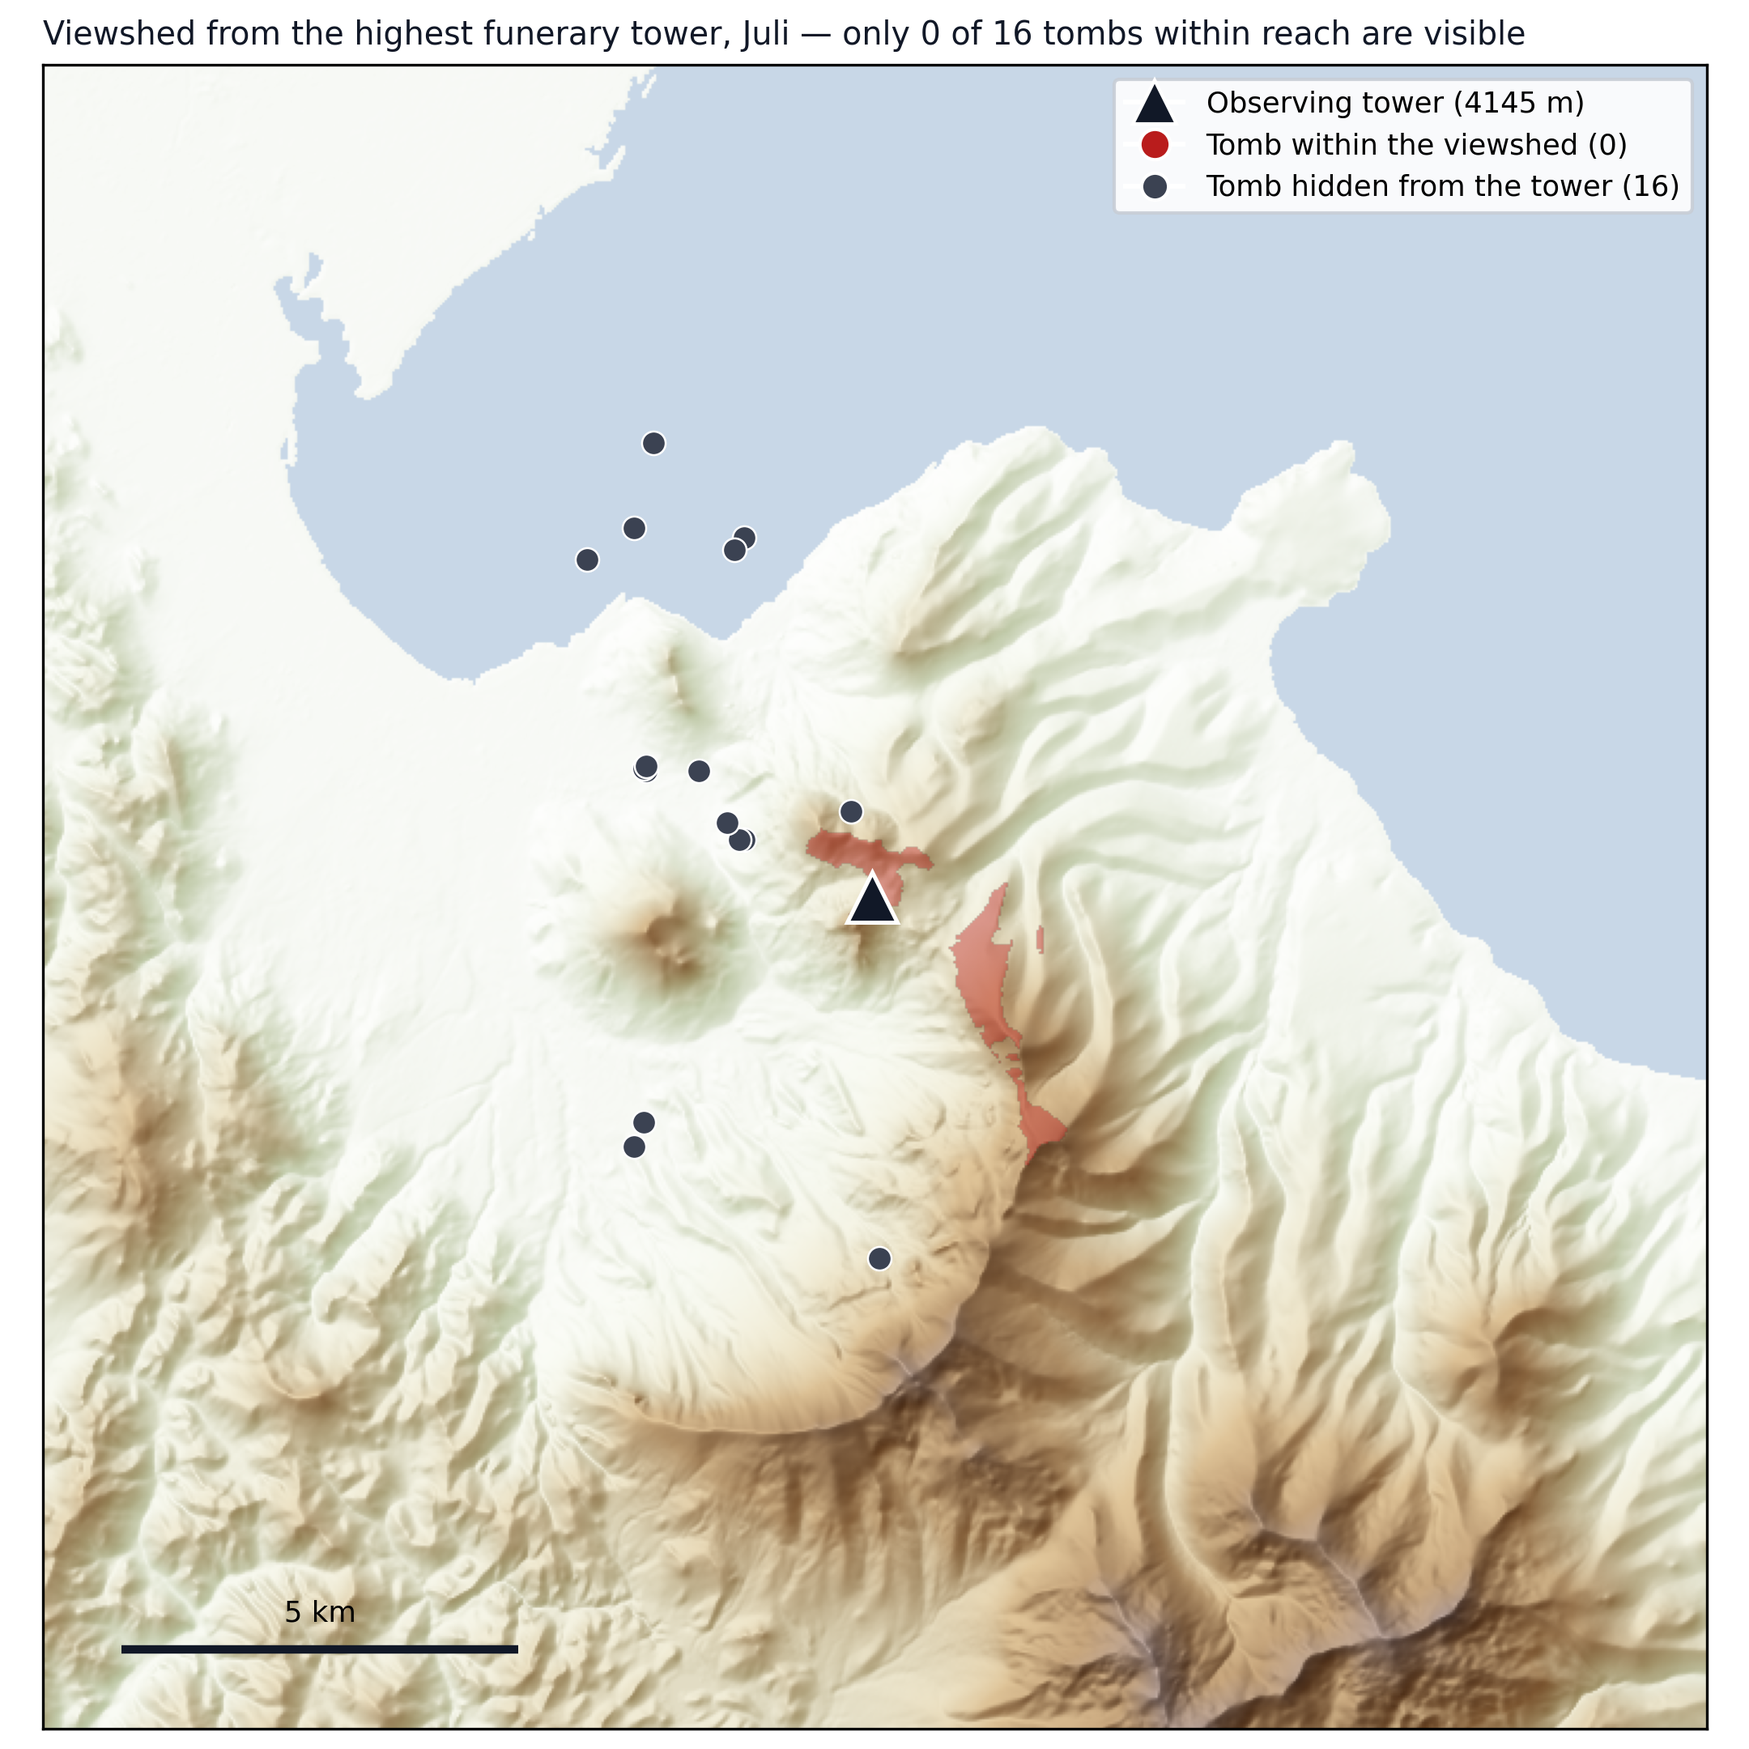
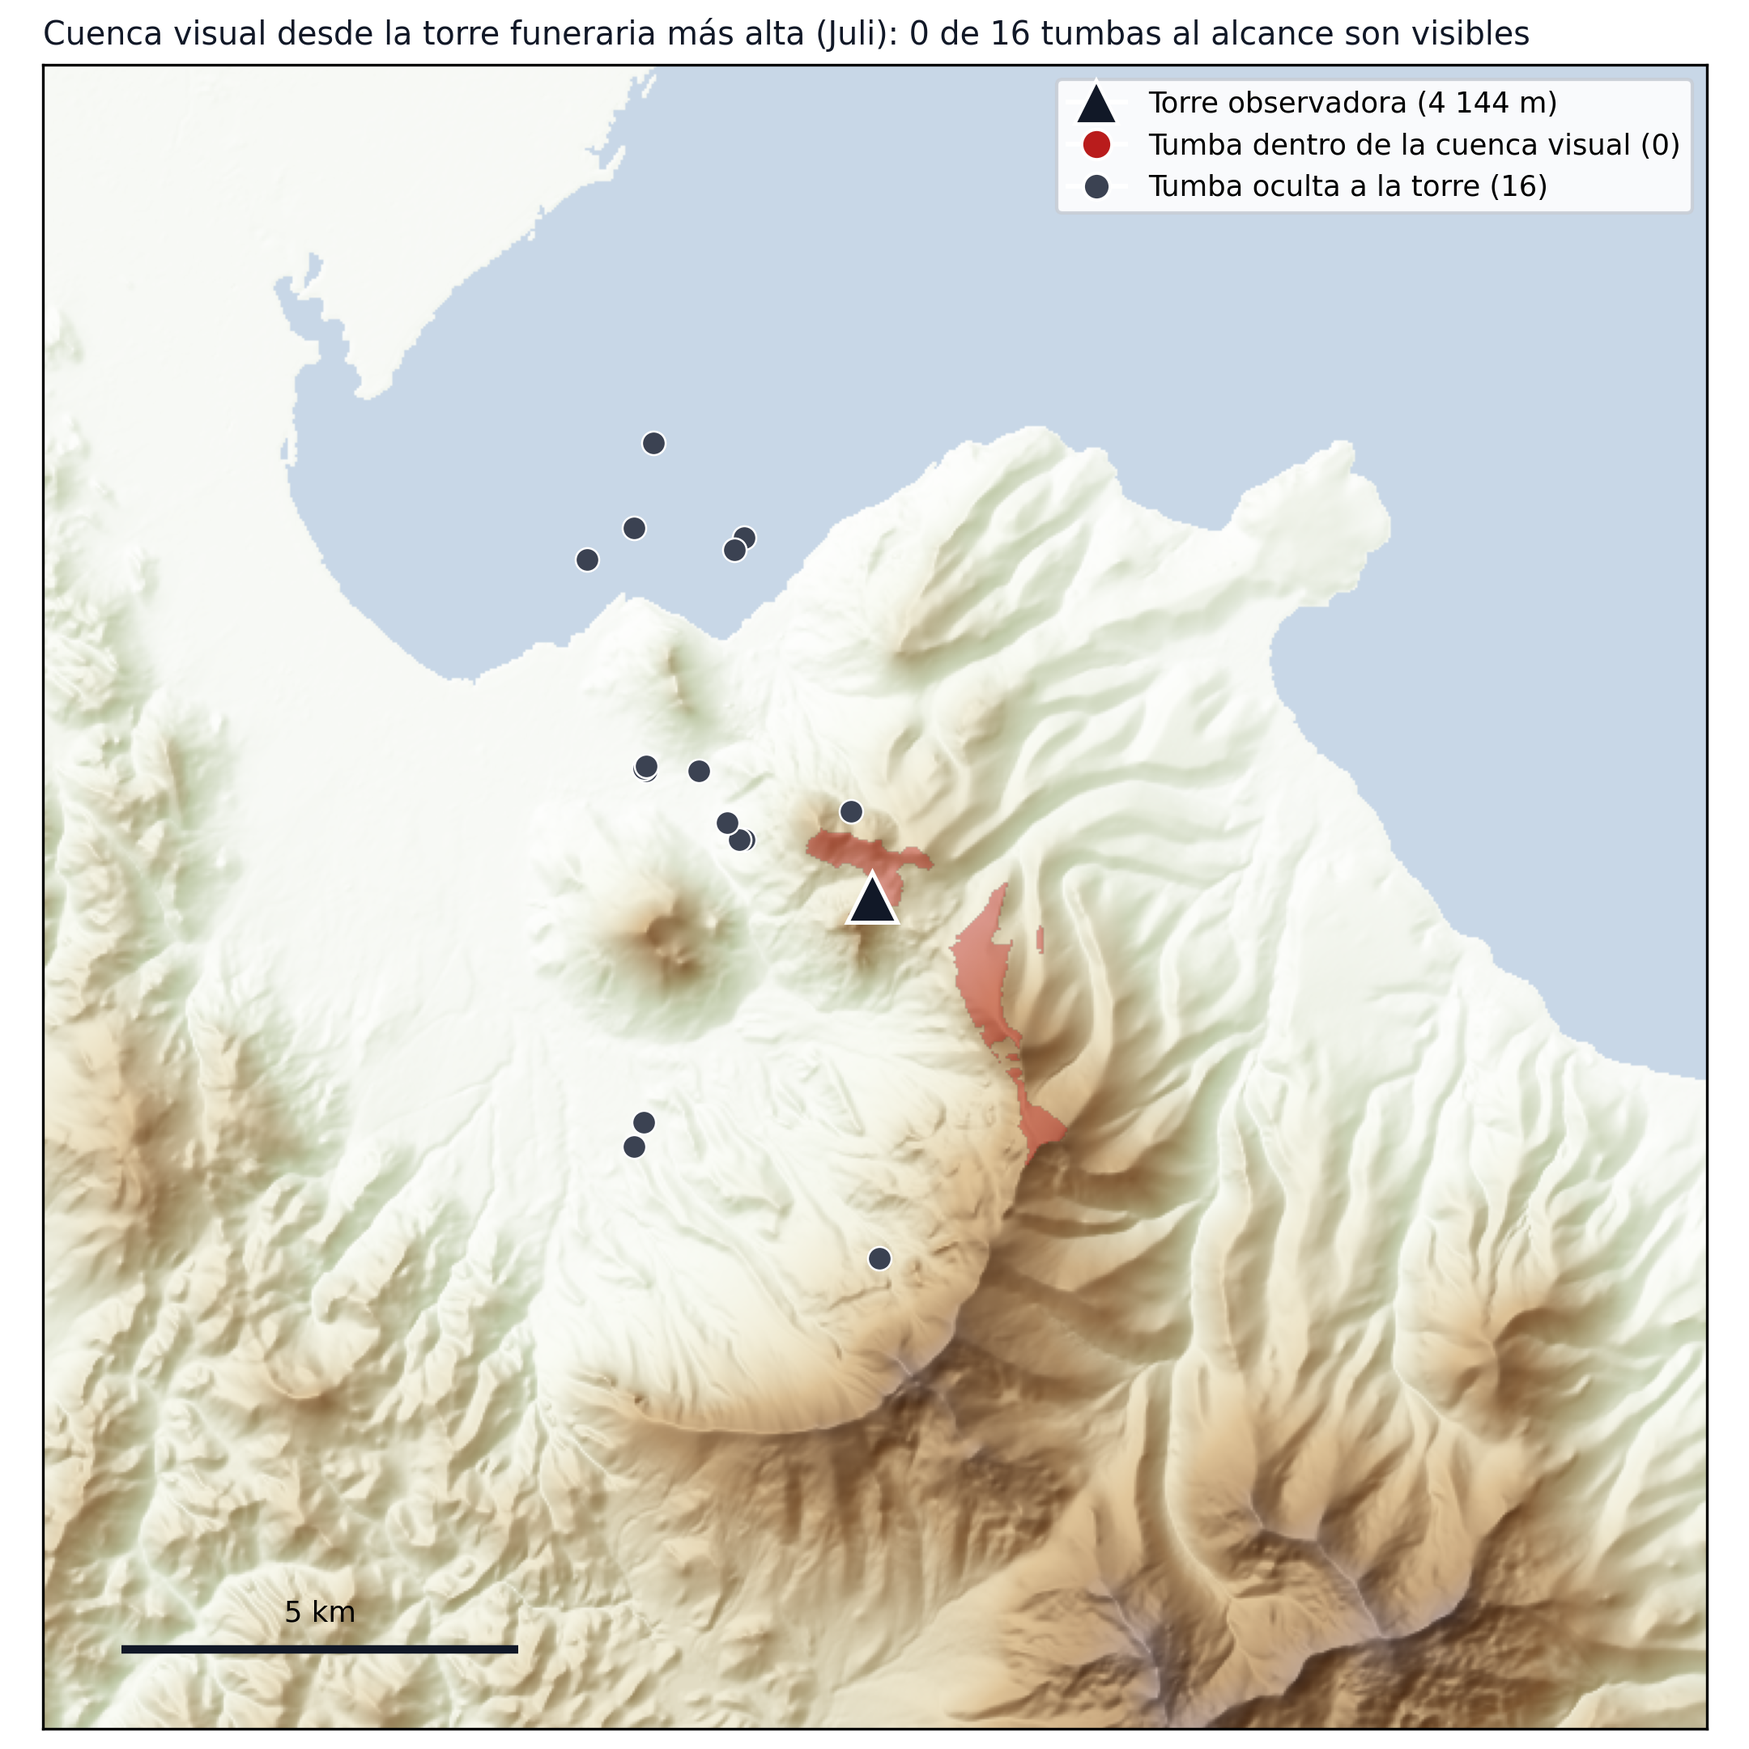
Anonimiza el depósito, cuantifica la sobreestimación del nulo uniforme y corrige la maquetación
- El apartado 6 ya no cita el DOI del depósito (su página muestra a los autores):
  se declara el identificador persistente y la licencia MIT, y se remite a la
  carta de presentación. La auditoría falla si aparecen zenodo, 10.5281, github
  o vl4dimr.
- «Un orden de magnitud» se sustituye por la razón z_uniforme/z_rígido leída de
  los resultados (entre 2.3 y 9.0 veces según el alcance) en la introducción,
  el extended abstract y la discusión.
- Figura 5: la cota de la torre salía como «4202f144 m»; ahora «4 144 m».
- Figura 4 rotulada en español y con la cota real (4 144 m, no 4145).
- La Tabla 3 precede a la Figura 5 para no dejar un cuarto de página en blanco,
  y un salto de sección final equilibra las columnas de las referencias.

Changed region(s): [[0.031, 0.0, 0.9616, 0.1241]]

diff --git a/scripts/p08_manuscript.py b/scripts/p08_manuscript.py
@@ -31,8 +31,8 @@ import docmeta
 
 BASE = os.path.dirname(os.path.dirname(os.path.abspath(__file__)))
 
-# DOI de concepto del deposito en Zenodo: apunta siempre a la ultima version.
-DOI_CONCEPTO = "10.5281/zenodo.22176260"
+# El identificador del deposito NO aparece en el manuscrito: su pagina muestra
+# los nombres de los autores y romperia la revision ciega. Va en la carta (p15).
 RES = os.path.join(BASE, "results")
 FIG = os.path.join(RES, "figuras")
 OUT = os.path.join(BASE, "VAR_intervisibilidad.docx")
@@ -189,6 +189,11 @@ z_agua = SINMASK["por_alcance"]["5000"]["z"] if SINMASK else float("nan")
 z_n300 = N300["por_alcance"]["5000"]["z"] if N300 else float("nan")
 z_alt = sorted(v["z"] for v in ALT["por_altura"].values()) if ALT else [r5["z"], r5["z"]]
 z_uni = ([NUL["nulos"]["uniforme"][a]["z"] for a in ("5000", "26000")] if NUL else [0, 0])
+# Razon z_uniforme / z_rigido por alcance: cuanto exagera el muestreo aleatorio
+# simple frente al nulo que controla la disposicion. Se usa en la introduccion,
+# el extended abstract y la discusion, por eso se calcula aqui.
+RAZ = (sorted(NUL["nulos"]["uniforme"][a]["z"] / RIG["por_alcance"][a]["z"]
+              for a in RIG["por_alcance"]) if NUL else [float("nan"), float("nan")])
 z_rig_medio = sum(v["z"] for v in RIG["por_alcance"].values()) / len(RIG["por_alcance"])
 alt_obs = ALT["por_altura"] if ALT else None
 var_alt = (100 * (alt_obs["12.0"]["observado"] - alt_obs["0.0"]["observado"])
@@ -341,10 +346,11 @@ for _par in [
     "Pomata, whose centroids lie %.1f km apart. Restricted to Juli, the only group large enough to "
     "test, the contrast falls to the margin of conventional significance (p = %s). The evidence is "
     "indicative, not conclusive. What does survive without qualification is the comparison between "
-    "null models: simple random sampling attributes to placement an effect several times larger than "
-    "the one that withstands a test controlling for the arrangement of the set."
+    "null models: simple random sampling attributes to placement an effect between %.1f and %.1f "
+    "times larger, depending on range, than the one that withstands a test controlling for the "
+    "arrangement of the set."
     % (n_sitios, r5["z"], f(r5["p_unilateral"], 3),
-       DIS["separacion_centroides_km"] if DIS else 0.0, p_juli),
+       DIS["separacion_centroides_km"] if DIS else 0.0, p_juli, RAZ[0], RAZ[-1]),
 
     "Three artefacts encountered during the analysis —the sign of the curvature correction, the "
     "constant elevation assigned to water, and the orientation bias of a tightly fitted raster "
@@ -398,20 +404,20 @@ P("Este trabajo retoma la cuestión en la provincia de Chucuito, en la ribera pe
   "primero equivale al muestreo aleatorio empleado hasta ahora; y el motor de cálculo se valida antes "
   "de tocar el terreno real, tanto sobre terrenos sintéticos de respuesta conocida como frente a una "
   "implementación de referencia de uso general.")
-P("El resultado sostiene la conclusión previa pero rebaja su magnitud en un orden de magnitud, y esa es "
-  "la primera contribución. La segunda es la documentación de tres artefactos hallados durante el "
+P("El resultado sostiene la conclusión previa, pero reduce su magnitud: el muestreo aleatorio simple "
+  "la exagera entre %.1f y %.1f veces según el alcance, y esa es la primera contribución. La segunda es la documentación de tres artefactos hallados durante el "
   "análisis que, sin corregir, invierten o anulan el resultado sin dejar rastro visible. La tercera es "
   "de arqueología virtual: el paisaje visual de la torre funeraria más alta del corpus se hace "
   "explorable en planta, en una perspectiva tridimensional generada por código y en un visor web "
   "interactivo, todos depositados junto con los datos y el código que los producen, de modo que la "
-  "visualización hereda la misma verificabilidad que el análisis estadístico.")
+  "visualización hereda la misma verificabilidad que el análisis estadístico." % (RAZ[0], RAZ[-1]))
 P("El artículo se organiza como sigue. El apartado 2 sitúa el trabajo en cinco líneas de "
   "bibliografía: el análisis de visibilidad en arqueología del paisaje, las redes de visibilidad y los "
   "modelos nulos, la incertidumbre del propio cálculo, los SIG tridimensionales y la arqueología "
   "virtual, y el paisaje funerario de la cuenca. El apartado 3 describe los datos, el motor de línea "
   "de visión, sus dos validaciones, los modelos nulos y los instrumentos de visualización. El apartado "
   "4 presenta los resultados, incluidos los tres artefactos y la cuenca visual de la torre. El "
-  "apartado 5 los discute y el 6 indica dónde está depositado todo el material.")
+  "apartado 5 los discute y el 6 describe cómo se ha depositado todo el material.")
 
 # ================================================================= antecedentes
 h1("2. Antecedentes")
@@ -837,13 +843,8 @@ figure("fig3d_planta.png", "Figura 4.",
        % (torre_nombre, CRUZ["parametros"]["alcance_m"] / 1000 if CRUZ else 10,
           TORRE["tumbas_en_figura"] if TORRE else 0),
        width_mm=120)
-figure("fig3d_perspectiva.png", "Figura 5.",
-       "La misma cuenca visual en perspectiva tridimensional, vista desde el noreste con exageración "
-       "vertical de 2.5, generada por código con un algoritmo del pintor que respeta la oclusión: un "
-       "sitio solo queda tapado cuando hay relieve entre él y el punto de vista. La torre observadora "
-       "se marca con un triángulo y las tumbas ocultas con círculos grises; el lago ocupa la esquina "
-       "inferior derecha. La escena es la misma que muestra el visor web interactivo depositado.")
-
+# La Tabla 3 va antes de la Figura 5: la perspectiva no cabe bajo la Figura 4 y,
+# en su orden natural, dejaba un cuarto de pagina en blanco.
 if CRUZ:
     table("Tabla 3.", "Validación cruzada de la cuenca visual desde la torre: motor propio frente a "
           "gdal_viewshed sobre el mismo ráster UTM de 30 m, con parámetros idénticos.",
@@ -856,6 +857,13 @@ if CRUZ:
                                                  mil(round(CRUZ["dist_media_total_m"])))]],
           widths=[24, 22, 22, 18, 16, 16, 52])
 
+figure("fig3d_perspectiva.png", "Figura 5.",
+       "La misma cuenca visual en perspectiva tridimensional, vista desde el noreste con exageración "
+       "vertical de 2.5, generada por código con un algoritmo del pintor que respeta la oclusión: un "
+       "sitio solo queda tapado cuando hay relieve entre él y el punto de vista. La torre observadora "
+       "se marca con un triángulo y las tumbas ocultas con círculos grises; el lago ocupa la esquina "
+       "inferior derecha. La escena es la misma que muestra el visor web interactivo depositado.")
+
 # ==================================================== discusion y conclusiones
 h1("5. Discusión y conclusiones")
 h2("5.1. Qué sostiene el resultado y qué no")
@@ -866,8 +874,6 @@ P("Los sitios de Chucuito ocupan posiciones desde las que se ven entre sí más 
   "significación convencional. La evidencia es indicativa, no concluyente, y así debe leerse."
   % n_sitios)
 if NUL:
-    _raz = sorted(NUL["nulos"]["uniforme"][a]["z"] / RIG["por_alcance"][a]["z"]
-                  for a in RIG["por_alcance"])
     P("Lo que sí resiste sin matices es la comparación entre modelos nulos: el muestreo aleatorio "
       "simple atribuye al emplazamiento un efecto entre %.1f y %.1f veces mayor, según el alcance, que "
       "el que sobrevive a un contraste capaz de controlar la disposición del conjunto. La distancia "
@@ -875,7 +881,7 @@ if NUL:
       "región y penaliza tanto más su intervisibilidad cuanto más lejos se mira. Es la advertencia de "
       "Wheatley y Gillings (2000) y de Lake y Woodman (2003) convertida en una cifra: el modelo nulo "
       "no es un detalle técnico, es la mitad del resultado."
-      % (_raz[0], _raz[-1]))
+      % (RAZ[0], RAZ[-1]))
 P("Conviene ser preciso sobre qué autoriza a concluir eso. El resultado dice que el emplazamiento "
   "favorece la visibilidad recíproca; no dice que la visibilidad fuera el criterio de emplazamiento. "
   "Otras razones —acceso al agua, suelos, rutas, defensa— pueden producir el mismo patrón si "
@@ -894,9 +900,9 @@ P("Esa comparación admite lectura frente al antecedente. Bongers et al. (2012) 
   "eleva todavía más, lo que indica que la cota por sí sola no explica el patrón. Pero el nulo rígido, "
   "que conserva la configuración y solo cambia su emplazamiento, los reduce a valores en torno a "
   "%+.1f. La conclusión previa se sostiene, y este trabajo la corrobora en otra zona de la cuenca y "
-  "con otra medida; pero la magnitud que sugiere el muestreo aleatorio simple es aproximadamente un "
-  "orden de magnitud mayor que la que resiste un contraste capaz de controlar la disposición del "
-  "conjunto." % (z_uni[0], z_uni[1], z_rig_medio))
+  "con otra medida; pero la magnitud que sugiere el muestreo aleatorio simple excede, en la "
+  "proporción ya indicada (de %.1f a %.1f veces), la que resiste un contraste capaz de controlar la "
+  "disposición del conjunto." % (z_uni[0], z_uni[1], z_rig_medio, RAZ[0], RAZ[-1]))
 P("El resultado de la torre más alta añade un matiz que la estadística agregada no muestra. Que "
   "ninguna otra tumba sea visible desde la posición funeraria más dominante del corpus es compatible "
   "con la lectura de Hyslop (1977) de las chullpas como mojones —un mojón se ve desde el territorio que "
@@ -977,11 +983,13 @@ P("El paso más útil sería incorporar cronología: con los sitios fechados, la
 h1("6. Disponibilidad de datos y código")
 P("El código que reconstruye el análisis completo, los datos derivados, los ficheros de resultados, "
   "las figuras, el visor web interactivo y el proyecto de QGIS están depositados con identificador "
-  "persistente, bajo licencia MIT: https://doi.org/%s. El modelo de elevación es Copernicus DEM "
+  "persistente, bajo licencia MIT. El identificador se omite durante la revisión para preservar el "
+  "anonimato: se facilita al editor en la carta de presentación y se incorporará en la versión final. "
+  "El modelo de elevación es Copernicus DEM "
   "GLO-30, de uso libre con atribución; la capa de sitios se cita según su procedencia declarada, con "
   "la reserva expuesta en el apartado 3.1. El manuscrito se genera desde los ficheros de resultados, "
   "de modo que ninguna cifra del texto está escrita a mano, y una auditoría automática comprueba que "
-  "cada valor citado tenga respaldo en ellos." % DOI_CONCEPTO)
+  "cada valor citado tenga respaldo en ellos.")
 P("El depósito incluye las ejecuciones previas a la corrección de dos de los tres artefactos descritos "
   "—el nulo rígido calculado sin enmascarar el lago y el calculado sobre el recorte ajustado—, de modo "
   "que las comparaciones del apartado 4 puedan verificarse y no haya que tomarlas por buenas. El "
@@ -1148,6 +1156,9 @@ for _ref in REFERENCIAS:
     _p = P(_ref, 9, after=4)
     _p.paragraph_format.left_indent = Cm(0.6)
     _p.paragraph_format.first_line_indent = Cm(-0.6)
+# Un salto de seccion continuo al final hace que Word equilibre las dos columnas
+# de la ultima pagina; sin el, las referencias ocupan solo la columna izquierda.
+one_col()
 
 doc.save(OUT)
 

diff --git a/scripts/p18_fig3d_cuenca.py b/scripts/p18_fig3d_cuenca.py
@@ -180,11 +180,12 @@ def figura_planta():
 
     from matplotlib.lines import Line2D
     leg = [Line2D([0], [0], marker="^", color="w", markerfacecolor=OBS_C, markersize=13,
-                  label="Observing tower (4145 m)"),
+                  label="Torre observadora (%s m)"
+                        % "{:,}".format(round(obs["altitud"])).replace(",", " ")),
            Line2D([0], [0], marker="o", color="w", markerfacecolor=VIS, markersize=9,
-                  label="Tomb within the viewshed (%d)" % n_vis),
+                  label="Tumba dentro de la cuenca visual (%d)" % n_vis),
            Line2D([0], [0], marker="o", color="w", markerfacecolor=OCULTO, markersize=8,
-                  label="Tomb hidden from the tower (%d)" % n_oc)]
+                  label="Tumba oculta a la torre (%d)" % n_oc)]
     ax.legend(handles=leg, loc="upper right", frameon=True, framealpha=0.9,
               fontsize=8.5, edgecolor="#c7cdd6")
     # barra de escala
@@ -192,8 +193,8 @@ def figura_planta():
     ax.text(3.5, 1.35, "5 km", ha="center", fontsize=8.5)
     ax.set_xlim(ext[0], ext[1]); ax.set_ylim(ext[2], ext[3])
     ax.set_xticks([]); ax.set_yticks([])
-    ax.set_title("Viewshed from the highest funerary tower, Juli — only %d of %d "
-                 "tombs within reach are visible" % (n_vis, n_vis + n_oc),
+    ax.set_title("Cuenca visual desde la torre funeraria más alta (Juli): %d de %d "
+                 "tumbas al alcance son visibles" % (n_vis, n_vis + n_oc),
                  fontsize=9.5, loc="left", color="#111827")
     fig.tight_layout(pad=0.6)
     out = os.path.join(FIG, "fig3d_planta.png")

diff --git a/scripts/p21_fig3d_perspectiva.py b/scripts/p21_fig3d_perspectiva.py
@@ -160,7 +160,7 @@ def main():
     ax.set_axis_off()
     leg = [Line2D([0], [0], marker="^", color="w", markerfacecolor=OBS_C, markersize=12,
                   label="Torre observadora (%s, %s m)"
-                        % (" ".join(obs["nombre"].split()), "{:,}".format(round(obs["altitud"])).replace(",", "202f"))),
+                        % (" ".join(obs["nombre"].split()), "{:,}".format(round(obs["altitud"])).replace(",", " "))),
            Line2D([0], [0], marker="o", color="w", markerfacecolor=VIS, markersize=9,
                   label="Sitio funerario dentro de la cuenca visual (%d)" % n_vis),
            Line2D([0], [0], marker="o", color="w", markerfacecolor=OCULTO, markersize=8,

diff --git a/scripts/p12_auditoria.py b/scripts/p12_auditoria.py
@@ -125,6 +125,12 @@ def main():
     hay = [x for x in nombres if x in texto]
     check("formato", "fichero anónimo", not hay, "aparece: %s" % hay if hay else "")
 
+    # El deposito identifica a los autores (su pagina muestra los nombres): ni
+    # el DOI ni el repositorio pueden aparecer mientras dure la revision ciega.
+    deposito = [x for x in ("zenodo", "10.5281", "github", "vl4dimr") if x in texto.lower()]
+    check("formato", "sin identificador del depósito ni repositorio", not deposito,
+          "aparece: %s" % deposito if deposito else "")
+
     # ---------------------------------------------------------------- figuras
     print("\n2. FIGURAS")
     from PIL import Image
